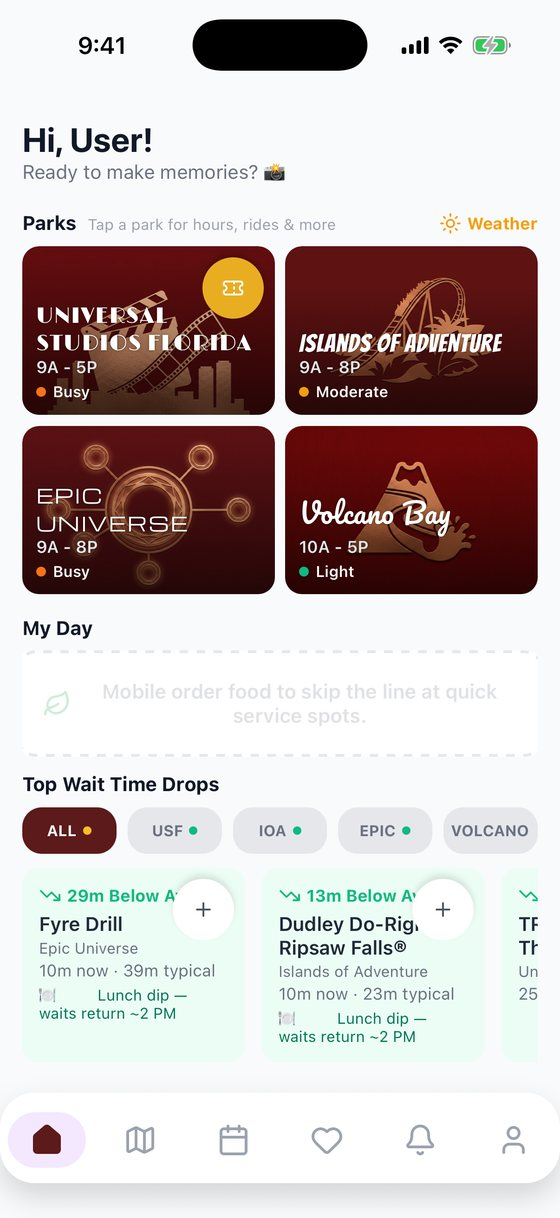
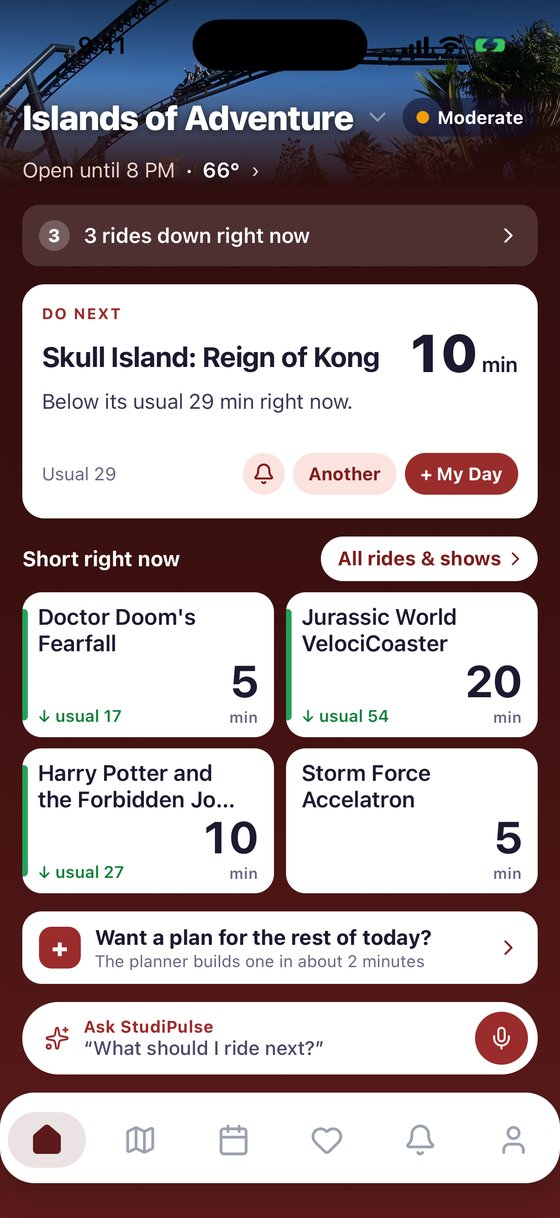
SeaPulse + StudiPulse pages: Ask sections and new StudiPulse screens
Both apps' 1.0.1 builds reached the App Store on 2026-11-25, which is what
these sections were held for.

- Ask SeaPulse and Ask StudiPulse sections, each with three example
  questions and the limits that match functions/askPulse (3 a day free,
  40 with Pro, verified account, forecasts and the planner are Pro).
- StudiPulse screens, captured 2026-11-25 from the app in the Simulator:
  the park dashboard home for Islands of Adventure ("Your park at a
  glance"), the Islands of Adventure park screen on the crimson ground,
  and Hagrid's "How today compares" chart in the Pro view ("See how today
  compares"). The only edit is the sparkle emoji the iOS 26.3 Simulator
  draws as a box.

diff --git a/studipulse/index.html b/studipulse/index.html
@@ -55,17 +55,37 @@
   </header>
 
   <main>
+    <!-- ⚠ ASK STUDIPULSE, published 2026-11-25 when StudiPulse 1.0.1 reached the
+         App Store (1.0.0 has no Ask bar, and the "New" pill promises it).
+         ⚠ Limits match functions/askPulse DEFAULTS (3 a day free, 40 with
+         Pro; an email account must be verified; forecasts and the planner are
+         Pro). The express tool is free and gives Express waits only, never
+         prices. No video yet: the MagiPulse Ask video shows Walt Disney World. -->
+    <section class="newband" id="ask">
+      <div class="wrap">
+        <span class="newpill">New</span>
+        <h2>Ask StudiPulse</h2>
+        <p class="sub">Ask about waits, the weather or your plan in plain English. Type it, or tap the mic and just ask. Answers come from the same live data as the rest of the app, and each one shows when it was checked.</p>
+        <ul class="asklist">
+          <li><q>What's the shortest wait at Epic Universe right now?</q><span>Live waits, free</span></li>
+          <li><q>How much time does Express save on Hagrid's?</q><span>Express waits, free</span></li>
+          <li><q>Is VelociCoaster going to get worse?</q><span>Forecasts, with Pro</span></li>
+        </ul>
+        <p class="note">Free accounts can ask 3 questions a day, and Pro accounts 40. Asking needs a free account: sign in with Apple or Google, or verify your email address. Wait forecasts and the day planner are answered with Pro.</p>
+      </div>
+    </section>
+
     <section class="light" id="features">
       <div class="wrap">
         <h2>What it does</h2>
         <p class="sub">Universal Studios Florida, Islands of Adventure, Epic Universe and Volcano Bay. Screens from the app.</p>
         <div class="shots">
-          <figure><img src="../assets/img/su-home.jpg" alt="The StudiPulse home screen with all four parks, crowd levels and today's biggest wait-time drops" width="560" height="1218" loading="lazy">
-            <figcaption><b>All four parks at a glance</b>Hours, crowd level and the rides running well under their usual wait.</figcaption></figure>
+          <figure><img src="../assets/img/su-home.jpg" alt="The StudiPulse home screen for Islands of Adventure: crowd level, rides down, the ride to do next and the waits running short right now" width="560" height="1218" loading="lazy">
+            <figcaption><b>Your park at a glance</b>Crowd level, what's down, the ride to do next and the waits running under their usual.</figcaption></figure>
           <figure><img src="../assets/img/su-park.jpg" alt="The Islands of Adventure park page with live waits for each attraction" width="560" height="1218" loading="lazy">
             <figcaption><b>Every wait in the park</b>Live waits for each attraction, with filters for rides, shows and lands.</figcaption></figure>
-          <figure><img src="../assets/img/su-ride.jpg" alt="A ride page with the current wait, predicted wait and a wait alert" width="560" height="1218" loading="lazy">
-            <figcaption><b>Set your wait, get the alert</b>Pick the wait you're happy with. StudiPulse tells you when the ride gets there.</figcaption></figure>
+          <figure><img src="../assets/img/su-ride.jpg" alt="The Hagrid's Magical Creatures Motorbike Adventure ride page: today's wait against yesterday's, the forecast for the rest of the day, and a wait alert" width="560" height="1218" loading="lazy">
+            <figcaption><b>See how today compares</b>Today's wait against yesterday's, the forecast for the rest of the day, and an alert when it reaches your number.</figcaption></figure>
         </div>
         <div class="feats">
           <div class="feat"><h3>Four parks, Epic Universe included</h3><p>Every park at Universal Orlando Resort, including Volcano Bay.</p></div>

diff --git a/seapulse/index.html b/seapulse/index.html
@@ -47,6 +47,27 @@
   </header>
 
   <main>
+    <!-- ⚠ ASK SEAPULSE, published 2026-11-25 when SeaPulse 1.0.1 reached the App
+         Store (1.0.0 has no Ask bar, and the "New" pill promises it).
+         ⚠ Limits match functions/askPulse DEFAULTS (3 a day free, 40 with
+         Pro; an email account must be verified; forecasts and the planner are
+         Pro). The app shows no Quick Queue waits or prices (instruction rule
+         28), so nothing here promises them. No video yet: the MagiPulse Ask
+         video shows Walt Disney World. -->
+    <section class="newband" id="ask">
+      <div class="wrap">
+        <span class="newpill">New</span>
+        <h2>Ask SeaPulse</h2>
+        <p class="sub">Ask about waits, the weather or your plan in plain English. Type it, or tap the mic and just ask. Answers come from the same live data as the rest of the app, and each one shows when it was checked.</p>
+        <ul class="asklist">
+          <li><q>What's the shortest wait at SeaWorld Orlando right now?</q><span>Live waits, free</span></li>
+          <li><q>Is Iron Gwazi going to get worse?</q><span>Forecasts, with Pro</span></li>
+          <li><q>Will it rain at Busch Gardens this afternoon?</q><span>Weather, free</span></li>
+        </ul>
+        <p class="note">Free accounts can ask 3 questions a day, and Pro accounts 40. Asking needs a free account: sign in with Apple or Google, or verify your email address. Wait forecasts and the day planner are answered with Pro.</p>
+      </div>
+    </section>
+
     <section class="light" id="features">
       <div class="wrap">
         <h2>What it does</h2>
